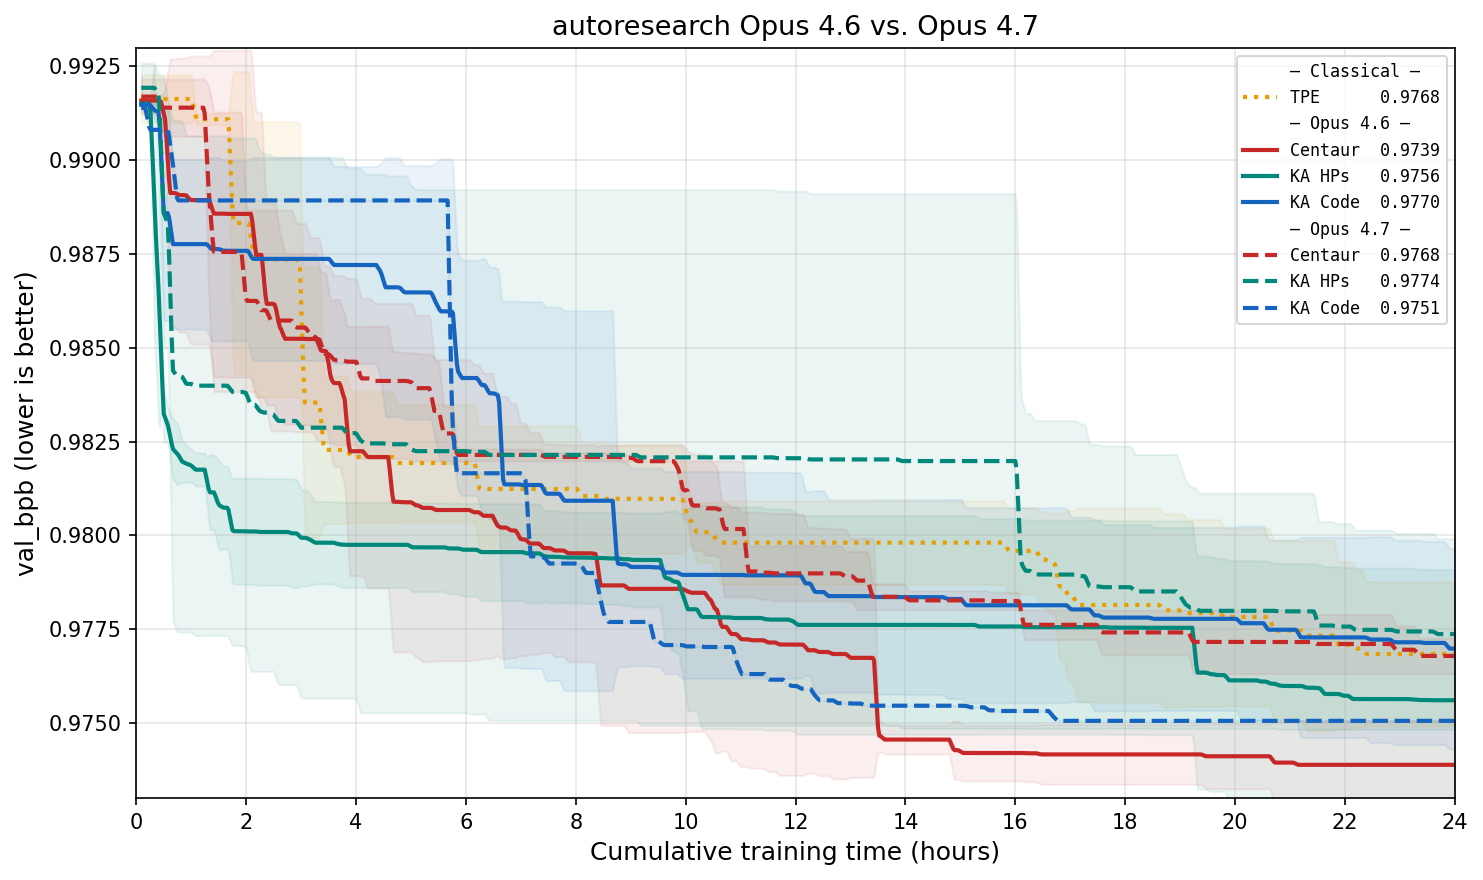
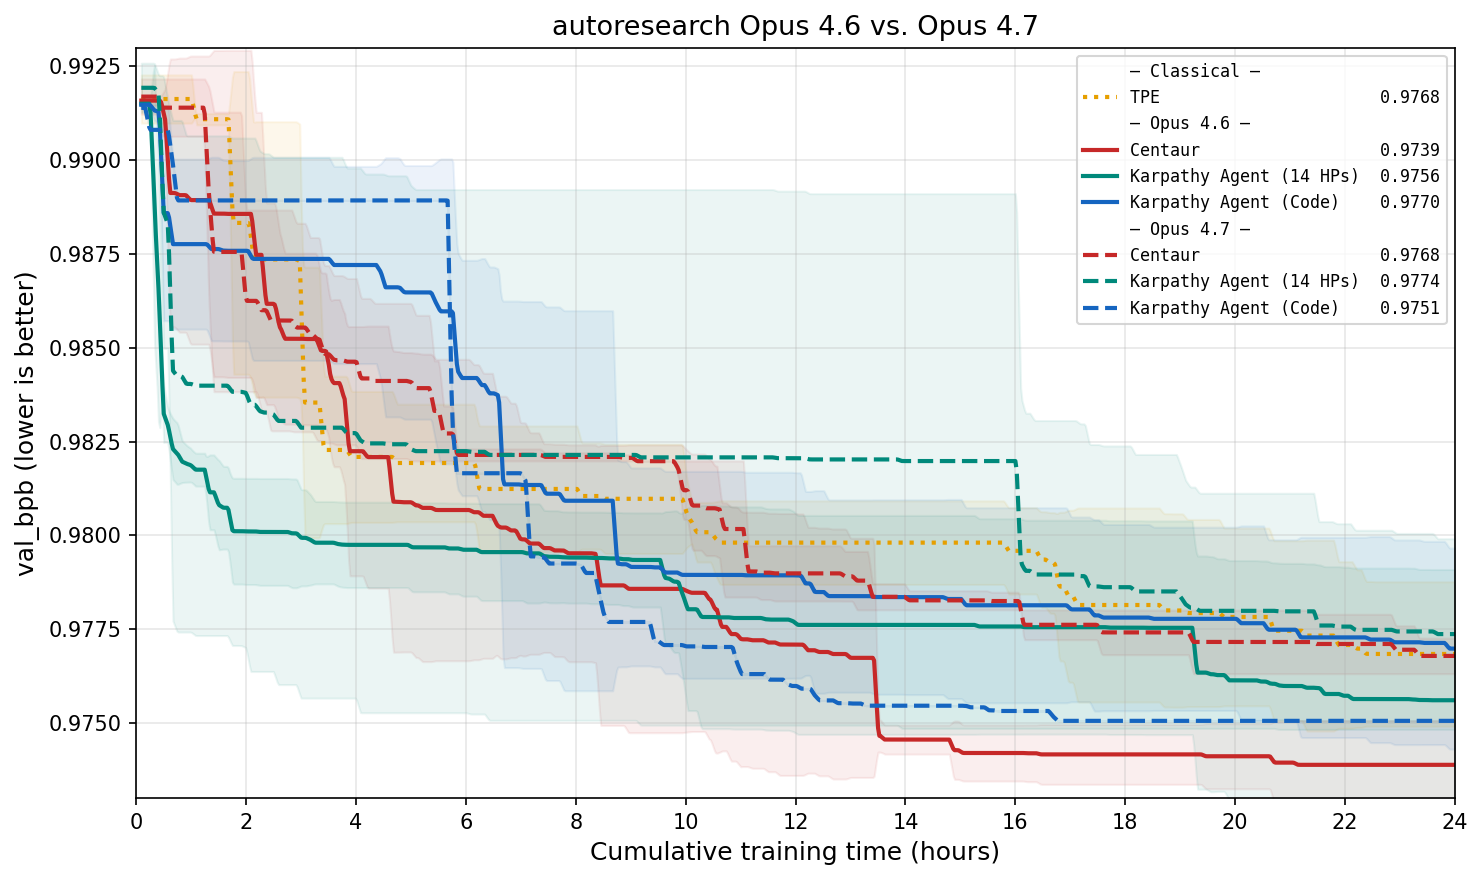
Plot: use full method names (Karpathy Agent (Code), Karpathy Agent (14 HPs))

Changed region(s): [[0.7134, 0.0614, 0.9616, 0.3682], [0.7755, 0.0614, 0.8375, 0.092], [0.7444, 0.092, 0.7755, 0.1227]]

diff --git a/scripts/plot_opus46_vs_opus47.py b/scripts/plot_opus46_vs_opus47.py
@@ -73,14 +73,14 @@ def build_backends() -> dict[str, dict]:
             "path": str(OPUS46_BASE / "centaur_claude_opus_4_6"),
         },
         "karpathy_agent_hps_claude_opus_4_6": {
-            "label": "KA HPs",
+            "label": "Karpathy Agent (14 HPs)",
             "group": "opus46",
             "color": "#00897B",
             "linestyle": "-",
             "path": str(OPUS46_BASE / "karpathy_agent_hps_claude_opus_4_6"),
         },
         "karpathy_agent_claude_opus_4_6": {
-            "label": "KA Code",
+            "label": "Karpathy Agent (Code)",
             "group": "opus46",
             "color": "#1565C0",
             "linestyle": "-",
@@ -95,14 +95,14 @@ def build_backends() -> dict[str, dict]:
             "path": str(OPUS47_BASE / "centaur_claude_opus_4_7"),
         },
         "karpathy_agent_hps_claude_opus_4_7": {
-            "label": "KA HPs",
+            "label": "Karpathy Agent (14 HPs)",
             "group": "opus47",
             "color": "#00897B",
             "linestyle": "--",
             "path": str(OPUS47_BASE / "karpathy_agent_hps_claude_opus_4_7"),
         },
         "karpathy_agent_claude_opus_4_7": {
-            "label": "KA Code",
+            "label": "Karpathy Agent (Code)",
             "group": "opus47",
             "color": "#1565C0",
             "linestyle": "--",
